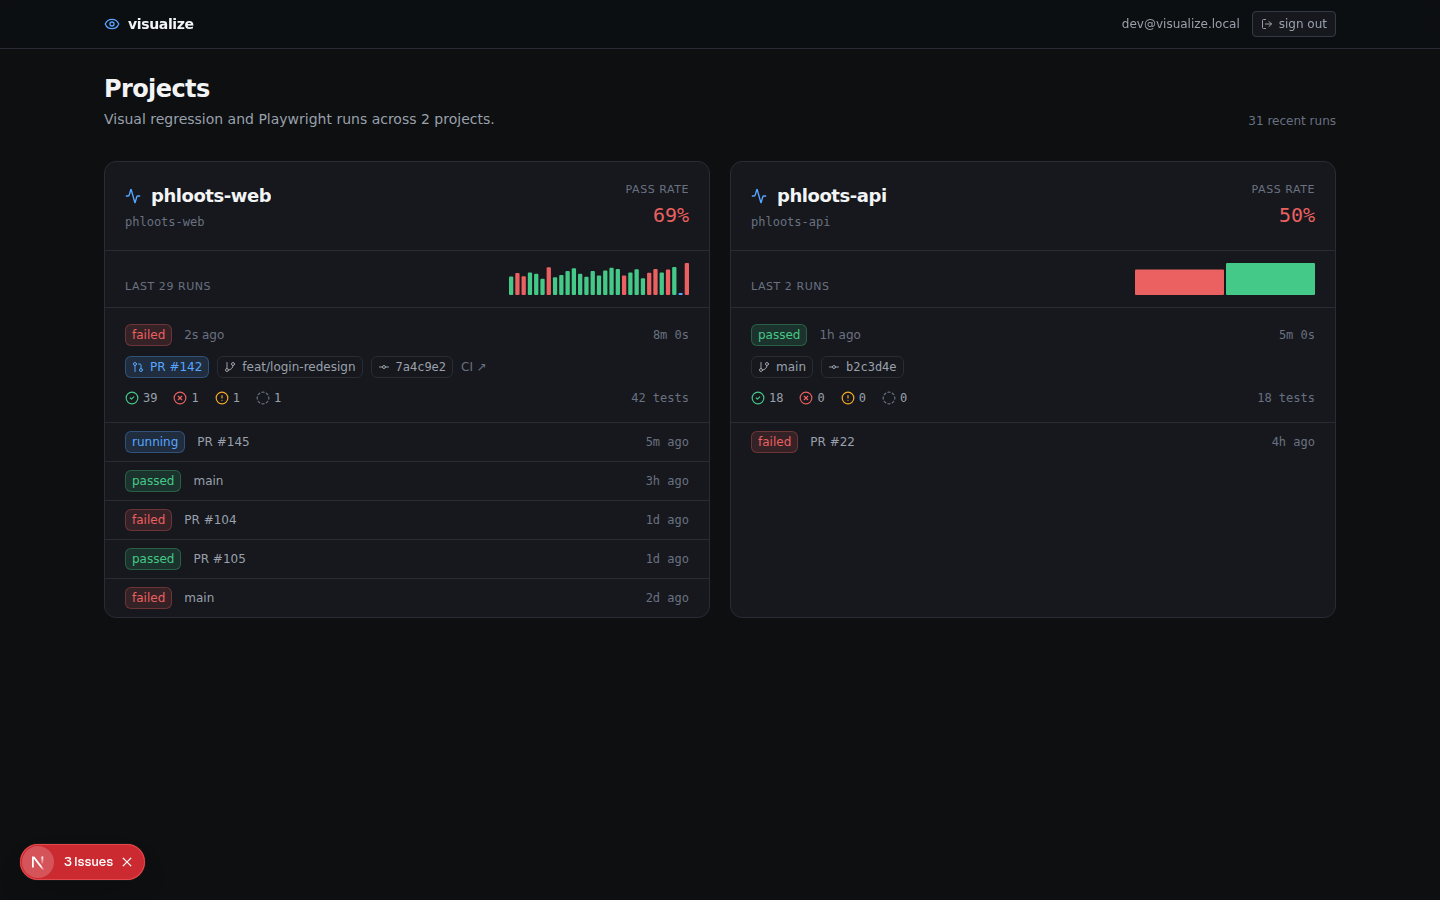
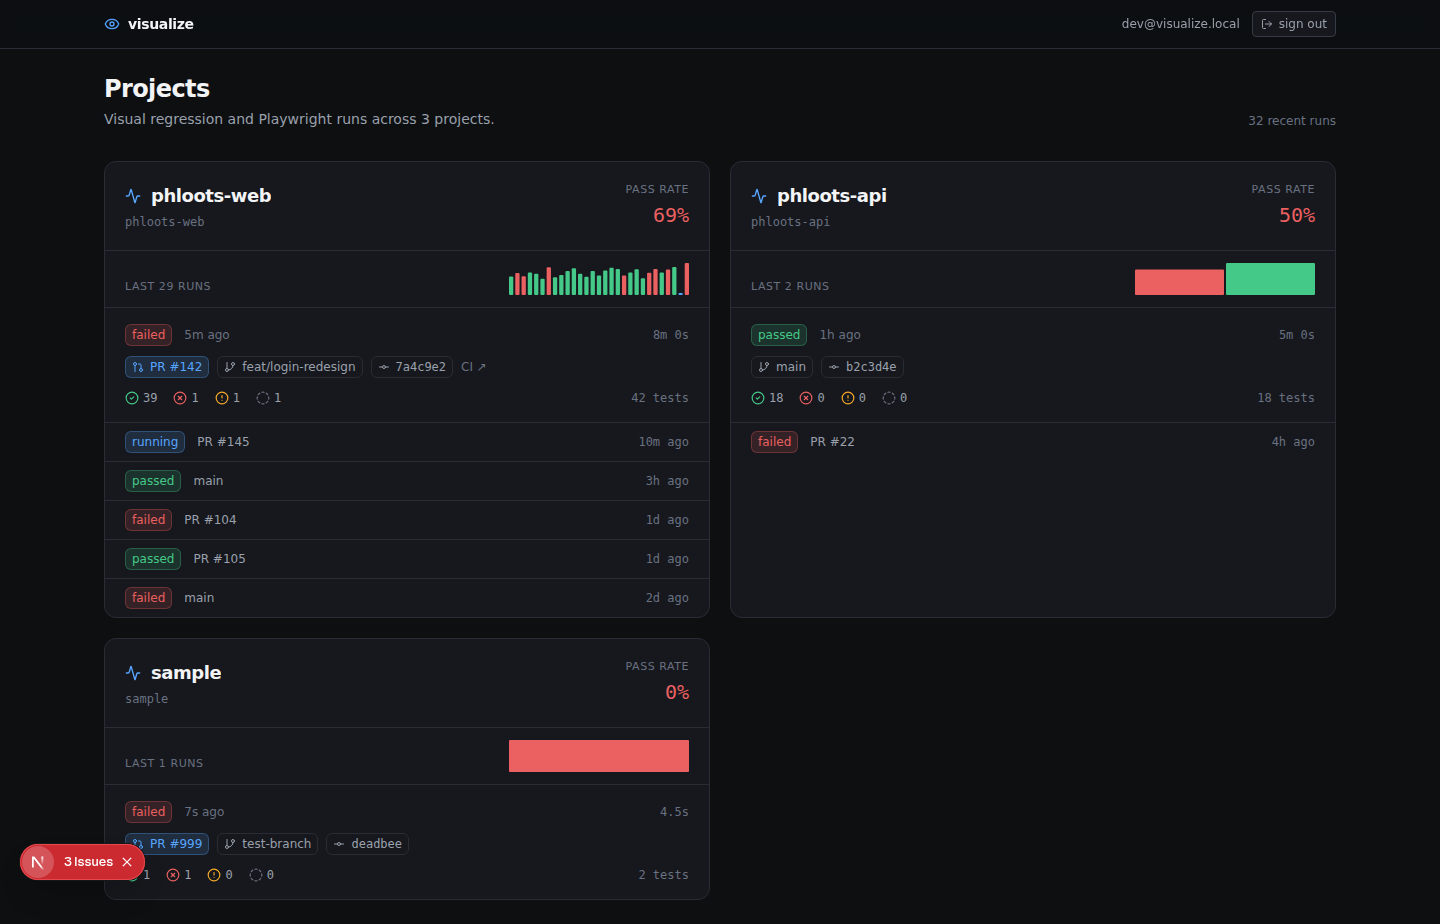
Verify ingest round-trip end-to-end
Booted ingest locally, uploaded a sample Playwright report bundle via
scripts/upload-report.ts, viewer rendered the new project + run + tests
correctly. Two fixes during verification:

- scripts/upload-report.ts: top-level await -> wrapped in run() since
  tsx defaults to CJS for plain .ts scripts
- apps/ingest: pino-pretty was missing as a dev dep (fastify pretty-print
  logger needs it in development)

The screenshot of the home now shows three projects: phloots-web,
phloots-api, and the freshly-uploaded "sample" project at the bottom,
proving the full pipeline (CLI -> ingest -> Postgres -> viewer) works.

https://claude.ai/code/session_01HZ4eX1f5i4KtdLBCu3Jg9r

diff --git a/scripts/upload-report.ts b/scripts/upload-report.ts
@@ -150,12 +150,19 @@ async function blobFromStream(stream: NodeJS.ReadableStream, size: number): Prom
   return new Blob(buffers, { type: 'application/octet-stream' });
 }
 
-const args = parseArgs(process.argv.slice(2));
-if (args.report) {
-  await uploadReport(args, path.resolve(args.report));
-} else if (args.baseline) {
-  await uploadBaseline(args);
-} else {
-  console.error('Provide either --report <dir> or --baseline <png>');
-  process.exit(1);
+async function run() {
+  const args = parseArgs(process.argv.slice(2));
+  if (args.report) {
+    await uploadReport(args, path.resolve(args.report));
+  } else if (args.baseline) {
+    await uploadBaseline(args);
+  } else {
+    console.error('Provide either --report <dir> or --baseline <png>');
+    process.exit(1);
+  }
 }
+
+run().catch((err) => {
+  console.error(err);
+  process.exit(1);
+});
